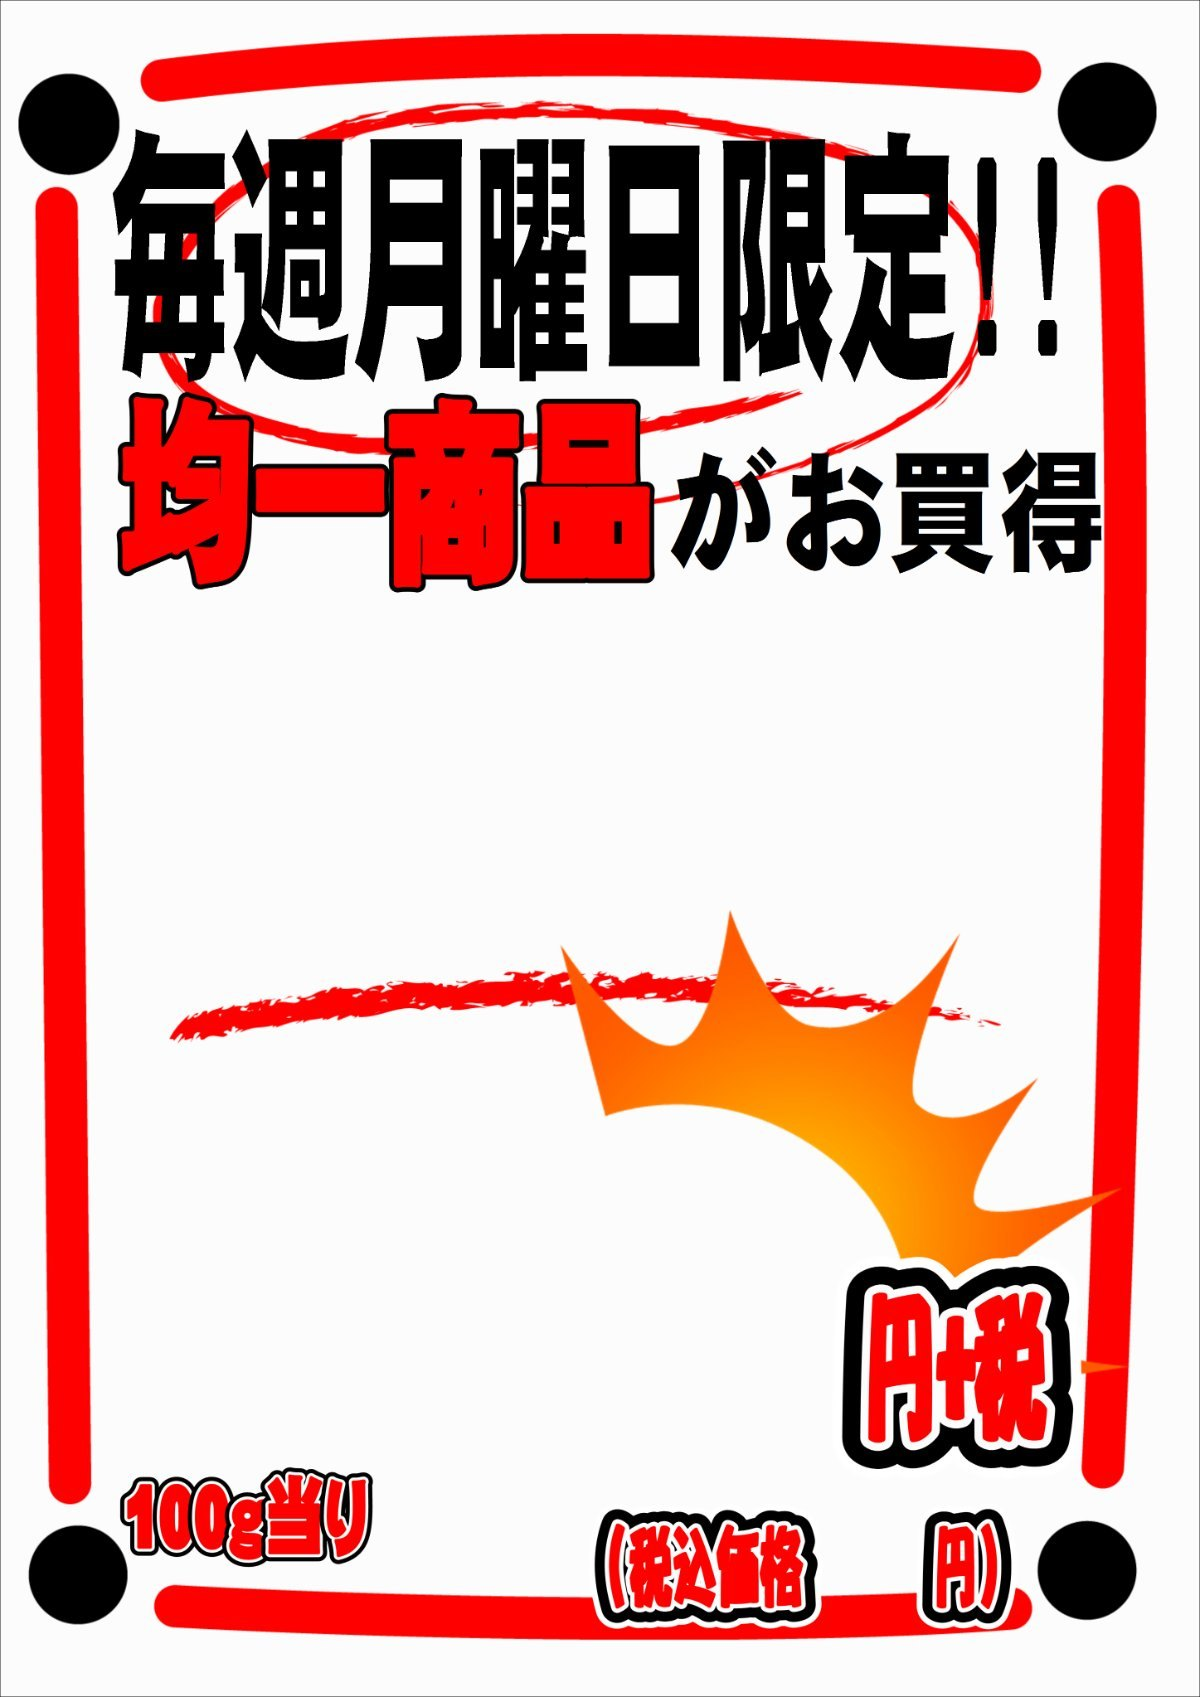
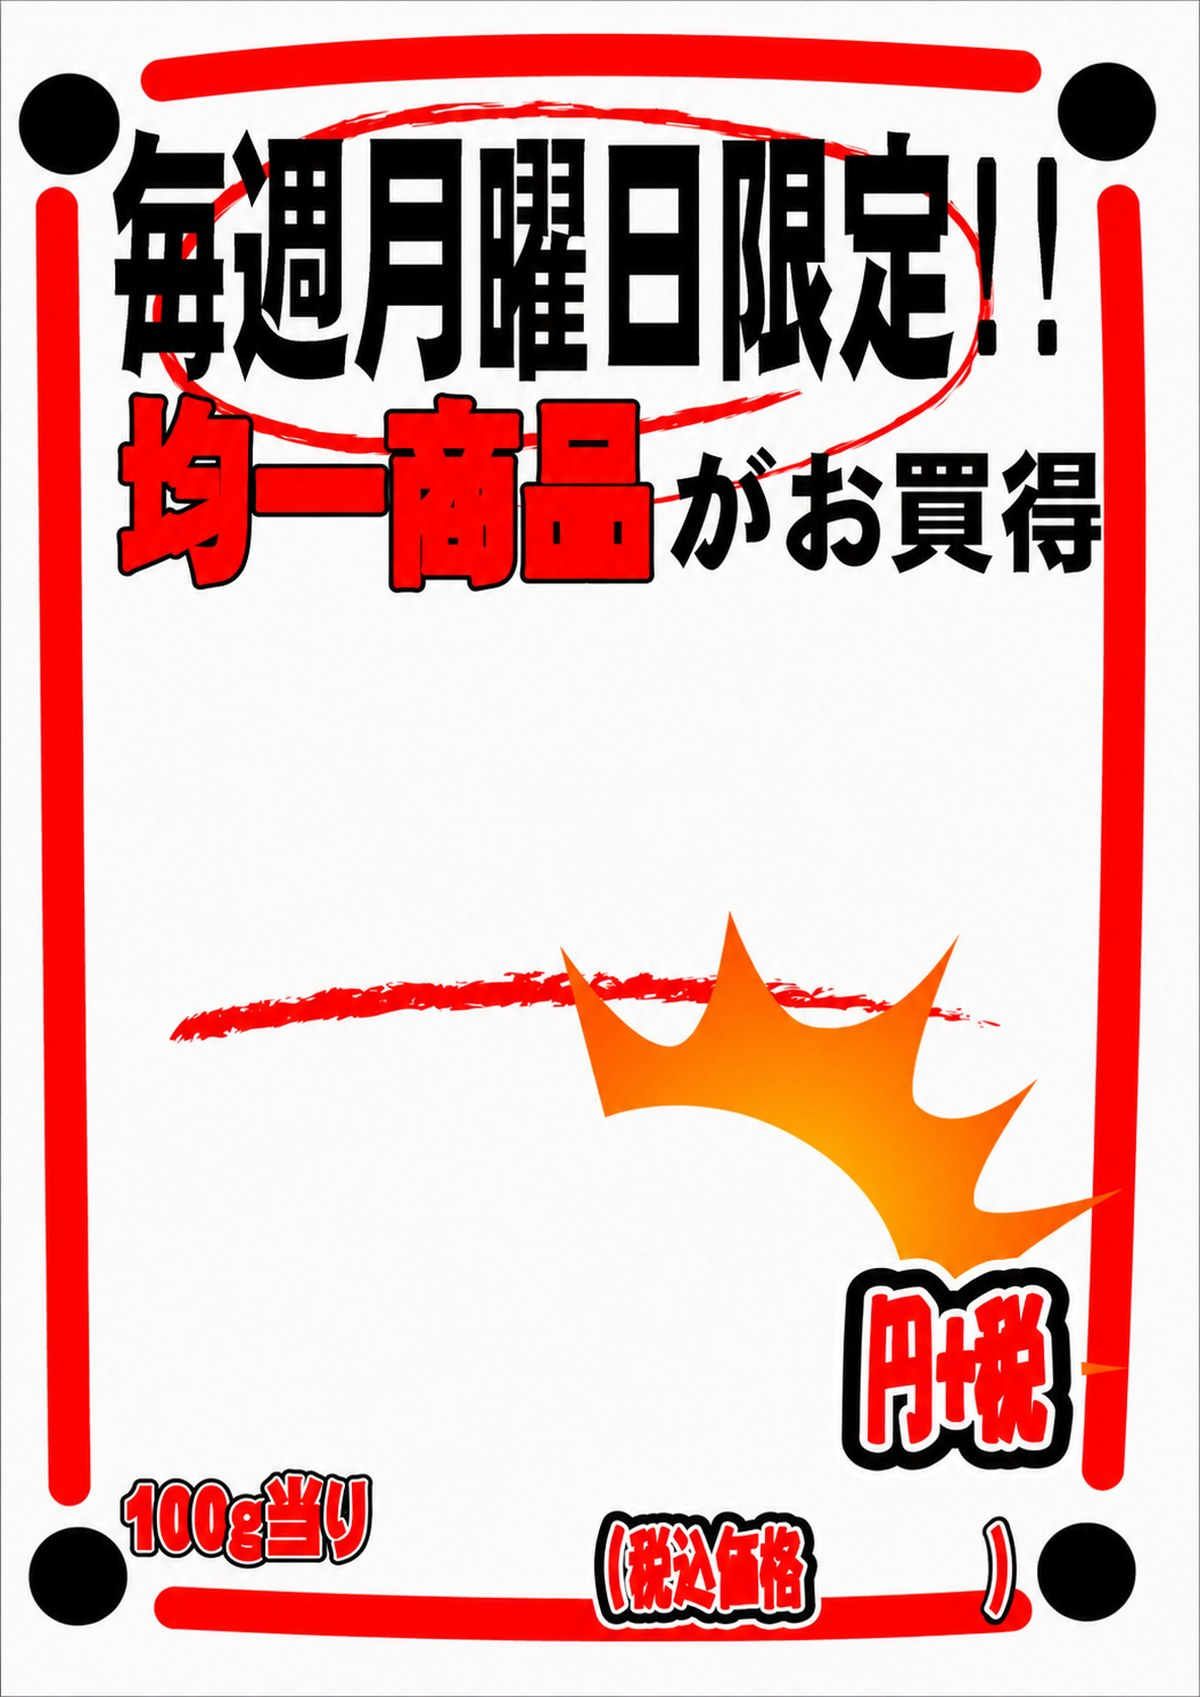
月曜販促テンプレを差し替え、レイアウトを最適化（v=20260905d）

diff --git a/js/10-tab-gne.jsx b/js/10-tab-gne.jsx
@@ -43,14 +43,14 @@ const GNE_PRESETS = [
     } },
   { id:"mon", name:"毎週月曜日限定", land:false, img:"tpl/mon.jpg", thumb:"tpl/mon_thumb.jpg", hideFixed:true,
     layout:{
-      origin:   { x:150, y:720,  size:76,  fill:"#141414", stroke:"#ffffff", sw:6,  align:"left",   maxW:920 },
-      name:     { x:600, y:880,  size:165, fill:"#141414", stroke:"#ffffff", sw:11, align:"center", maxW:960 },
-      count:    { x:245, y:1545, size:1,   fill:"#141414", stroke:"#141414", sw:0,  align:"center" },
-      price:    { x:700, y:1290, size:250, fill:"#e01414", stroke:"#141414", sw:12, align:"center", maxW:620 },
-      plus:     { x:960, y:1385, size:1,   fill:"#e01414", stroke:"#e01414", sw:0,  align:"center" },
-      yen:      { x:960, y:1385, size:1,   fill:"#141414", stroke:"#141414", sw:0,  align:"center" },
-      taxLabel: { x:760, y:1590, size:1,   fill:"#141414", stroke:"#141414", sw:0,  align:"center" },
-      taxPrice: { x:880, y:1578, size:56,  fill:"#141414", stroke:"#ffffff", sw:4,  align:"center" },
+      origin:   { x:120, y:640,  size:74,  fill:"#141414", stroke:"#ffffff", sw:6,  align:"left",   maxW:960 },
+      name:     { x:600, y:800,  size:160, fill:"#141414", stroke:"#ffffff", sw:11, align:"center", maxW:990 },
+      count:    { x:205, y:1508, size:1,   fill:"#141414", stroke:"#141414", sw:0,  align:"center" },
+      price:    { x:620, y:1300, size:250, fill:"#e01414", stroke:"#141414", sw:12, align:"center", maxW:520 },
+      plus:     { x:986, y:1360, size:1,   fill:"#e01414", stroke:"#e01414", sw:0,  align:"center" },
+      yen:      { x:986, y:1360, size:1,   fill:"#141414", stroke:"#141414", sw:0,  align:"center" },
+      taxLabel: { x:700, y:1565, size:1,   fill:"#141414", stroke:"#141414", sw:0,  align:"center" },
+      taxPrice: { x:930, y:1565, size:62,  fill:"#e01414", stroke:"#141414", sw:4,  align:"center" },
     } },
   { id:"super", name:"SUPER均一祭", land:false, img:"tpl/super.jpg", thumb:"tpl/super_thumb.jpg", hideFixed:true,
     layout:{

diff --git a/js/01-config.jsx b/js/01-config.jsx
@@ -37,6 +37,7 @@ const FLOOR_STORES = ["北部店","木次店","大田店","斐川店","医大通
 // パスワードはSupabase側（verify_password関数）で照合。生の値はこのファイルに持たない。
 // 開発・お知らせタブの掲載内容。新しい更新は配列の先頭に足す。type: 新機能 / 修正 / お知らせ
 const ANNOUNCEMENTS = [
+  { date:"2026-09-05", type:"改善", title:"月曜販促のテンプレを差し替えました", body:"新しいテンプレに合わせて、産地・商品名・価格・税込価格の位置を調整しました。「円＋税」の左に価格が入り、「（税込価格　）」の空欄に税込が入ります。" },
   { date:"2026-09-05", type:"改善", title:"税込価格の「円」を付けるか選べます", body:"入力支援の税設定の隣に「円あり／数字だけ」の切り替えを付けました。テンプレに「円」が刷り込んである時は「数字だけ」にすると重なりません。選んだ設定は次回も残ります。" },
   { date:"2026-09-05", type:"新機能", title:"管理画面でまとめて削除できます", body:"アーカイブ管理で選んだポップを、まとめて消せるようになりました。誤って消さないよう、確認の画面で「削除」と入力しないと実行できません。消したものは戻せないので、残しておきたいだけなら「アーカイブする」をお使いください。" },
   { date:"2026-09-02", type:"新機能", title:"ポップをまとめて投稿できます", body:"画像を複数まとめて選べるようになりました。曜日ごとの販促ポップなど、何枚もある時に一度で済みます。商品名はファイル名から自動で入るので、直すだけで大丈夫です。1枚ずつ外すこともできます。店舗・お名前・カテゴリ・コメントは全部に同じものが入ります。" },

diff --git a/js/10-tab-gne.js b/js/10-tab-gne.js
@@ -270,28 +270,28 @@ const GNE_PRESETS = [{
   hideFixed: true,
   layout: {
     origin: {
-      x: 150,
-      y: 720,
-      size: 76,
+      x: 120,
+      y: 640,
+      size: 74,
       fill: "#141414",
       stroke: "#ffffff",
       sw: 6,
       align: "left",
-      maxW: 920
+      maxW: 960
     },
     name: {
       x: 600,
-      y: 880,
-      size: 165,
+      y: 800,
+      size: 160,
       fill: "#141414",
       stroke: "#ffffff",
       sw: 11,
       align: "center",
-      maxW: 960
+      maxW: 990
     },
     count: {
-      x: 245,
-      y: 1545,
+      x: 205,
+      y: 1508,
       size: 1,
       fill: "#141414",
       stroke: "#141414",
@@ -299,18 +299,18 @@ const GNE_PRESETS = [{
       align: "center"
     },
     price: {
-      x: 700,
-      y: 1290,
+      x: 620,
+      y: 1300,
       size: 250,
       fill: "#e01414",
       stroke: "#141414",
       sw: 12,
       align: "center",
-      maxW: 620
+      maxW: 520
     },
     plus: {
-      x: 960,
-      y: 1385,
+      x: 986,
+      y: 1360,
       size: 1,
       fill: "#e01414",
       stroke: "#e01414",
@@ -318,8 +318,8 @@ const GNE_PRESETS = [{
       align: "center"
     },
     yen: {
-      x: 960,
-      y: 1385,
+      x: 986,
+      y: 1360,
       size: 1,
       fill: "#141414",
       stroke: "#141414",
@@ -327,8 +327,8 @@ const GNE_PRESETS = [{
       align: "center"
     },
     taxLabel: {
-      x: 760,
-      y: 1590,
+      x: 700,
+      y: 1565,
       size: 1,
       fill: "#141414",
       stroke: "#141414",
@@ -336,11 +336,11 @@ const GNE_PRESETS = [{
       align: "center"
     },
     taxPrice: {
-      x: 880,
-      y: 1578,
-      size: 56,
-      fill: "#141414",
-      stroke: "#ffffff",
+      x: 930,
+      y: 1565,
+      size: 62,
+      fill: "#e01414",
+      stroke: "#141414",
       sw: 4,
       align: "center"
     }

diff --git a/index.html b/index.html
@@ -229,21 +229,21 @@ setTimeout(function(){
 }, 8000);
 </script>
 <div id="root"></div>
-<script src="js/01-config.js?v=20260905c"></script>
-<script src="js/02-api.js?v=20260905c"></script>
-<script src="js/03-utils.js?v=20260905c"></script>
-<script src="js/04-shared.js?v=20260905c"></script>
-<script src="js/05-tab-board.js?v=20260905c"></script>
-<script src="js/06-tab-create.js?v=20260905c"></script>
-<script src="js/07-tab-floor.js?v=20260905c"></script>
-<script src="js/09-tab-info.js?v=20260905c"></script>
-<script src="js/11-tab-check-fish.js?v=20260905c"></script>
-<script src="js/12-tab-learn.js?v=20260905c"></script>
-<script src="js/14-app.js?v=20260905c"></script>
+<script src="js/01-config.js?v=20260905d"></script>
+<script src="js/02-api.js?v=20260905d"></script>
+<script src="js/03-utils.js?v=20260905d"></script>
+<script src="js/04-shared.js?v=20260905d"></script>
+<script src="js/05-tab-board.js?v=20260905d"></script>
+<script src="js/06-tab-create.js?v=20260905d"></script>
+<script src="js/07-tab-floor.js?v=20260905d"></script>
+<script src="js/09-tab-info.js?v=20260905d"></script>
+<script src="js/11-tab-check-fish.js?v=20260905d"></script>
+<script src="js/12-tab-learn.js?v=20260905d"></script>
+<script src="js/14-app.js?v=20260905d"></script>
 
 <!-- 遅延読み込み：重いタブ（バーコード/入力ジェネレーター/魚図鑑/管理画面）は開いた時に読み込む -->
 <script>
-window.APP_VER = "20260905c";
+window.APP_VER = "20260905d";
 window.__lazyLoaded = {};
 window.loadLazyTab = function(name){
   return new Promise(function(resolve, reject){
